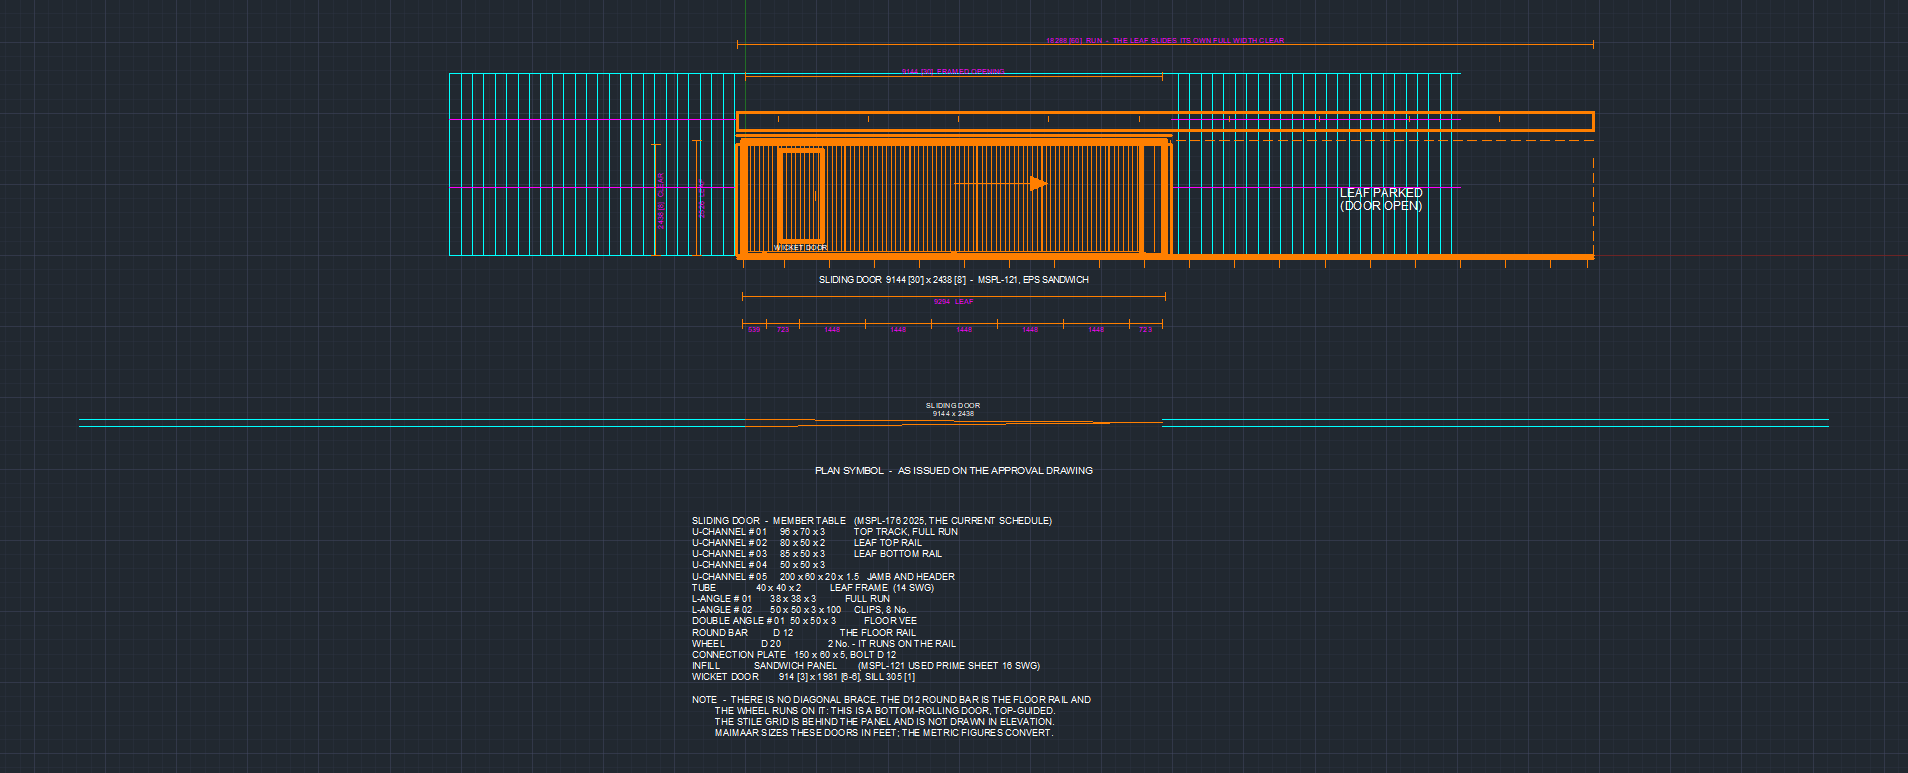
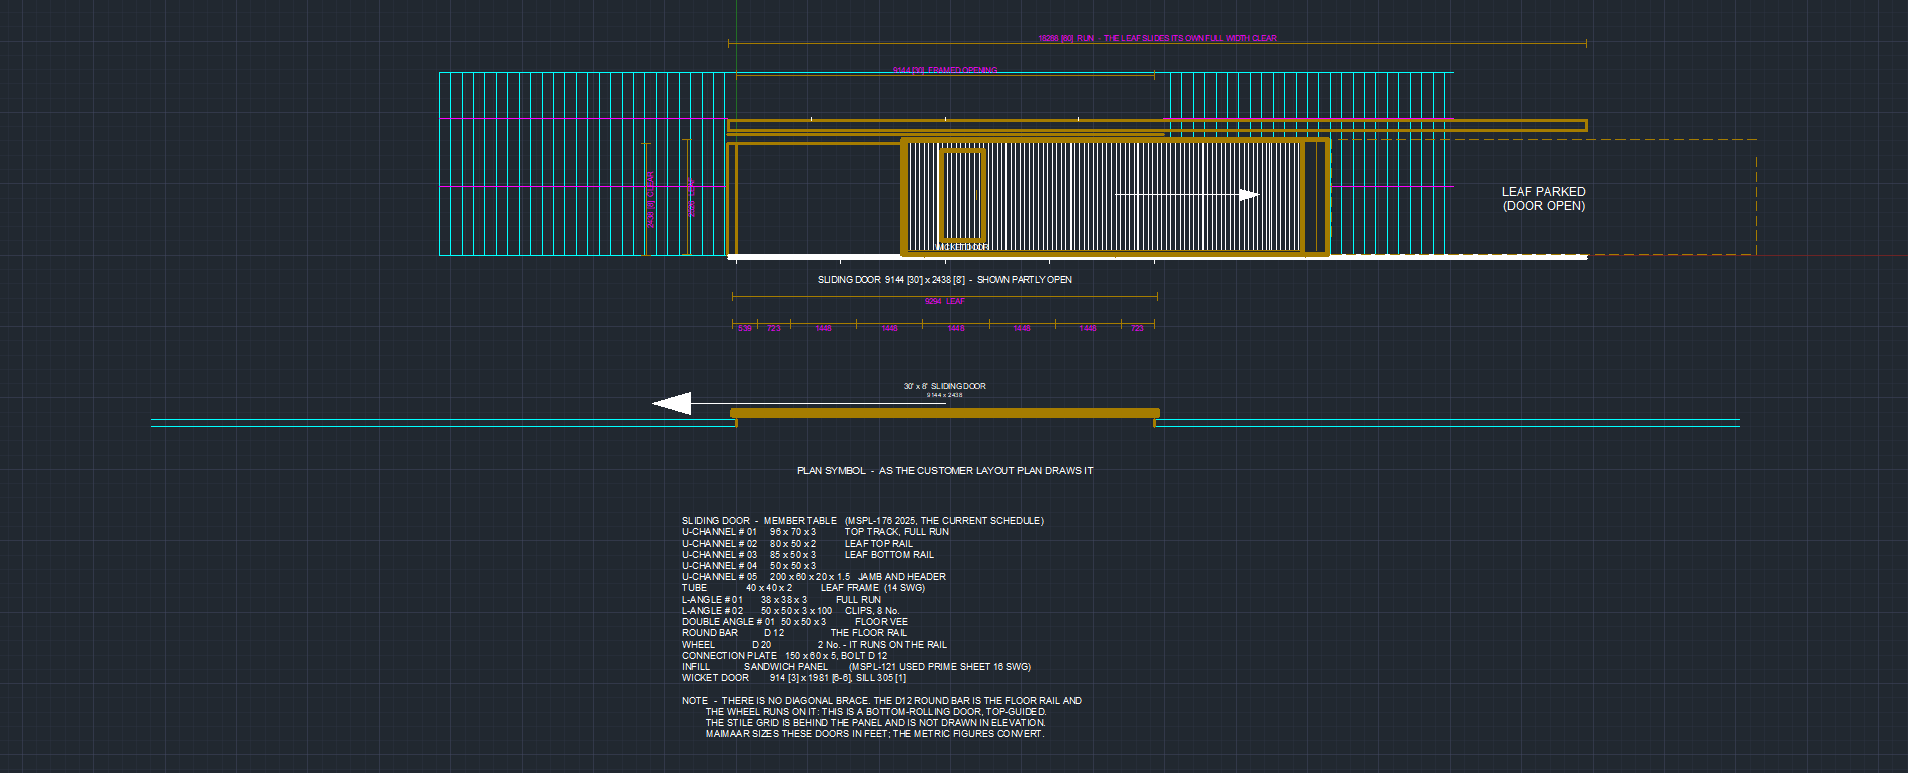
The door, made beautiful: its own palette, one head band, finer arrows
COLOUR THAT REINFORCES THE PENS INSTEAD OF FLATTENING THEM
  The door was one flat ACI 30 orange on a single layer, so the leaf outline, the
  panel face, the wheels, the rail and the track all came out equally strong: a dense
  orange block in a wall of cyan sheeting, green louvers, red columns and magenta
  girts. Loud, and flat. The PENS were already right and the colour was fighting them.

    SLIDING DOOR        ACI 42  gold      0.50   leaf outline, trims, opening frame
    SLIDING DOOR-FACE   ACI 252 pale grey 0.05   the panel face - present, never loud
    SLIDING DOOR-HW     ACI 9   grey      0.18   wheels, clips, floor rail, arrows

  Gold because every neighbour is taken, and because it reads as a manufactured item
  rather than as structure. None of this reaches the customer's PDF - that is
  monochrome, only lineweight survives - it is for the DWG the draughtsman works in.

THE AUDIT PASS
  THE HEAD was a track line and a hood box stacked, floating 200 above the leaf and
    running the whole slide length: on a 48 m wall, a stray bar crossing the sheeting
    with a gap underneath. The head trim covers the channel and the wheels, so on an
    elevation it IS one band. One band now, and the hangers sit over the opening.
  THE FLOOR RAIL still runs the full slide length - the door rides on it - but the
    stubs were marching the whole way at 990, a ladder lying under the wall. Short
    ticks now, under the opening only, where they carry something.
[…]

diff --git a/3_Draftsman/Proposal Drawings/engine/PD_RULEBOOK.md b/3_Draftsman/Proposal Drawings/engine/PD_RULEBOOK.md
@@ -368,6 +368,13 @@ MEASURED, not asserted: the render records what each sheet DREW (`_bbox.txt`) an
 SHOWS (`_vpview.txt`, DXF groups 12/45 read off the finished viewport), `checkGoldenRule`
 compares them, and a DWG that breaks either is left on disk but **NOT filed** into the proposal
 folder. → **1.6, 4B.28, 4B.29**
+⭐ **The check FAILS CLOSED: missing evidence is a failure, not a pass.** It used to read the two
+measurement files inside a `catch` that returned "no findings", so the one run that most needed
+checking — the one where the engine died before writing them — was the run that skipped it, and
+the DWG was filed as though every sheet had been verified. A missing, empty or unreadable
+`_bbox.txt` / `_vpview.txt` is now itself a finding. The check also walks the TABS, not only the
+drawn sheets, so **a layout with no measured drawing behind it** can no longer pass unseen.
+Guarded by `tests/goldenRuleFrames.test.js`. Fixed 4-Sep-2026. → §0.10/C23
 
 **S53 — MEASURE AT THE END.** Sheets are drawn at the origin and MOVED by `peb-tile-place`, so a
 bbox taken next to the draw call can be wrong by the whole tiling shift (60,480 mm on 278 — the
@@ -411,6 +418,15 @@ are written from grid A DOWNWARD. Every sheet names a grid line the same way
 **S61 — ONE fall glyph on every plan-type sheet**, drawn by one shared routine, carrying the
 slope ratio with it. The glyph is the traced house/arrow OUTLINE with the disc on the shoulder
 line; `FALL` text is **colour 7 (white → plots black)**, not red. → **4B.13**
+⭐ **And ONE answer for the structure type that routine branches on — `peb-plan-stype`
+(Standard.lsp).** Sharing the drawer is not enough: `peb-fall-glyph-set` dispatches on `stype`, so
+a sheet that resolves `stype` for itself gets a different glyph set out of the same routine. The
+CLP normalised (ACS→CS, AMS→MS behind `*PEB-ARCHED*`, anything outside the whitelist → CS) and
+`MAIMAAR_PEB_Framing.lsp` — which draws the roof sheets that actually SHIP — did not, so an arched
+building got its fall arrows on the Column Layout Plan and **none at all** on PRO-05a/05b. The
+normalisation existed in `MAIMAAR_PEB_Roof.lsp` all along; that is the dead engine (S14), so the
+fix sat where nobody rendered it. **Every plan-type sheet now asks `peb-plan-stype`.** Fixed
+4-Sep-2026. → §0.10/C22
 
 **S62 — The title-block band is about the sheet it is on, or it is the wrong band.** Every field
 is either **true of this sheet** or **not printed**; the title, PRO number and scale come from
@@ -685,6 +701,9 @@ now marked superseded at its source.
 | C20 | **Doc structure.** `## 5. THE DOC SET` sat at line 1607, in the middle of section 4B, between 4B.50 and 4B.51. | **Moved to the end**, where it belongs. |
 | C21 | **Stale code references.** 3.1 cited `Standard.lsp:415` for `peb-all-sheets`; it is at **605**. | Corrected. Treat every `file:line` in this book as a hint, not a promise. |
 
+| C22 | **Slope/fall symbol deviates between the CLP and the roof sheets.** `peb-fall-glyph-set` is correctly shared, but it branches on `stype`, and Plan.lsp normalised the type while Framing.lsp (PRO-05a/05b) read `STYPE` raw. `Roof.lsp` had the normalisation — and is dead code. | **FIXED 4-Sep.** One resolver, `peb-plan-stype` (Standard.lsp); CLP and both roof drawers call it. The CLP's own result is unchanged (the body moved verbatim). |
+| C23 | **The golden-rule check passed vacuously.** `renderDwg` wrapped the read of `_bbox.txt`/`_vpview.txt` in `catch { return [] }`, so a run that wrote no measurements was filed as fully checked; and the check walked only the drawn sheets, so a layout with nothing behind it was invisible. | **FIXED 4-Sep.** Fails closed on missing/empty evidence, and walks the tabs as well as the sheets. Two new tests. |
+
 **Still open, deliberately.**
 - `peb-comp-fall` draws the old FALL glyph on canopy strips (C9).
 - `Section.lsp` ~1503 gates on `(= stype "MS")`, so the CROSS SECTION of a multi-span single
@@ -695,6 +714,9 @@ now marked superseded at its source.
 - Bottom / Top&Bottom / Centre-Curved / Parapet fascias draw the plan band only, no section.
 - A `FA_<W>_GUTTER = Valley` request still renders the standard eave gutter.
 - `moduleMap` lists PRO-10 / PRO-11 for Stair.lsp; no such pages exist (C3).
+- `MAIMAAR_PEB_Framing.lsp:1322` and `:2328` (the wall framing / sheeting ELEVATION drawers) still
+  read `STYPE` raw rather than through `peb-plan-stype`. They draw no fall glyph, so C22 does not
+  reach them — but they are the same divergence waiting for its own symptom.
 
 ---
 
